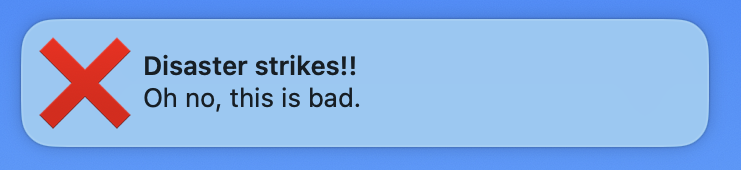
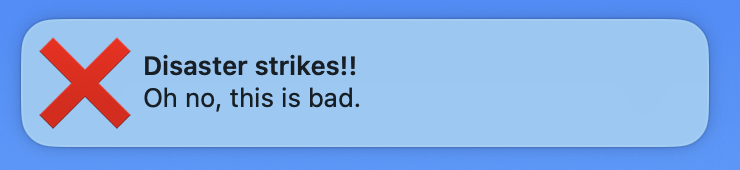
mobile formatting

diff --git a/README.md b/README.md
@@ -7,12 +7,12 @@ Trying to make a simple app/script that does nothing but notify success or failu
 ```bash
 teller success --message "We did it!" --title "Something Went Right" --sound Glass
 ```
-<img src="./docs/success.png" height=85 alt="a success notification">
+<img src="./docs/success.png" width="370" alt="a success notification">
 
 ```bash
 teller failure --message "Oh no, this is bad." --title "Disaster strikes!!" --sound Basso
 ```
-<img src="./docs/failure.png" height=85 alt="a failure notification">
+<img src="./docs/failure.png" width="370" alt="a failure notification">
 
 Along the lines of [`terminal-notifier`](https://github.com/julienXX/terminal-notifier/), but I wanted to see if there was some way I could get specific images to show up. `terminal-notifier` used to have functionality to pass an image path that would appear as the app icon, but that was using some private framework and [stopped working with Big Sur (macOS 11)](https://github.com/julienXX/terminal-notifier/issues/283).
 
